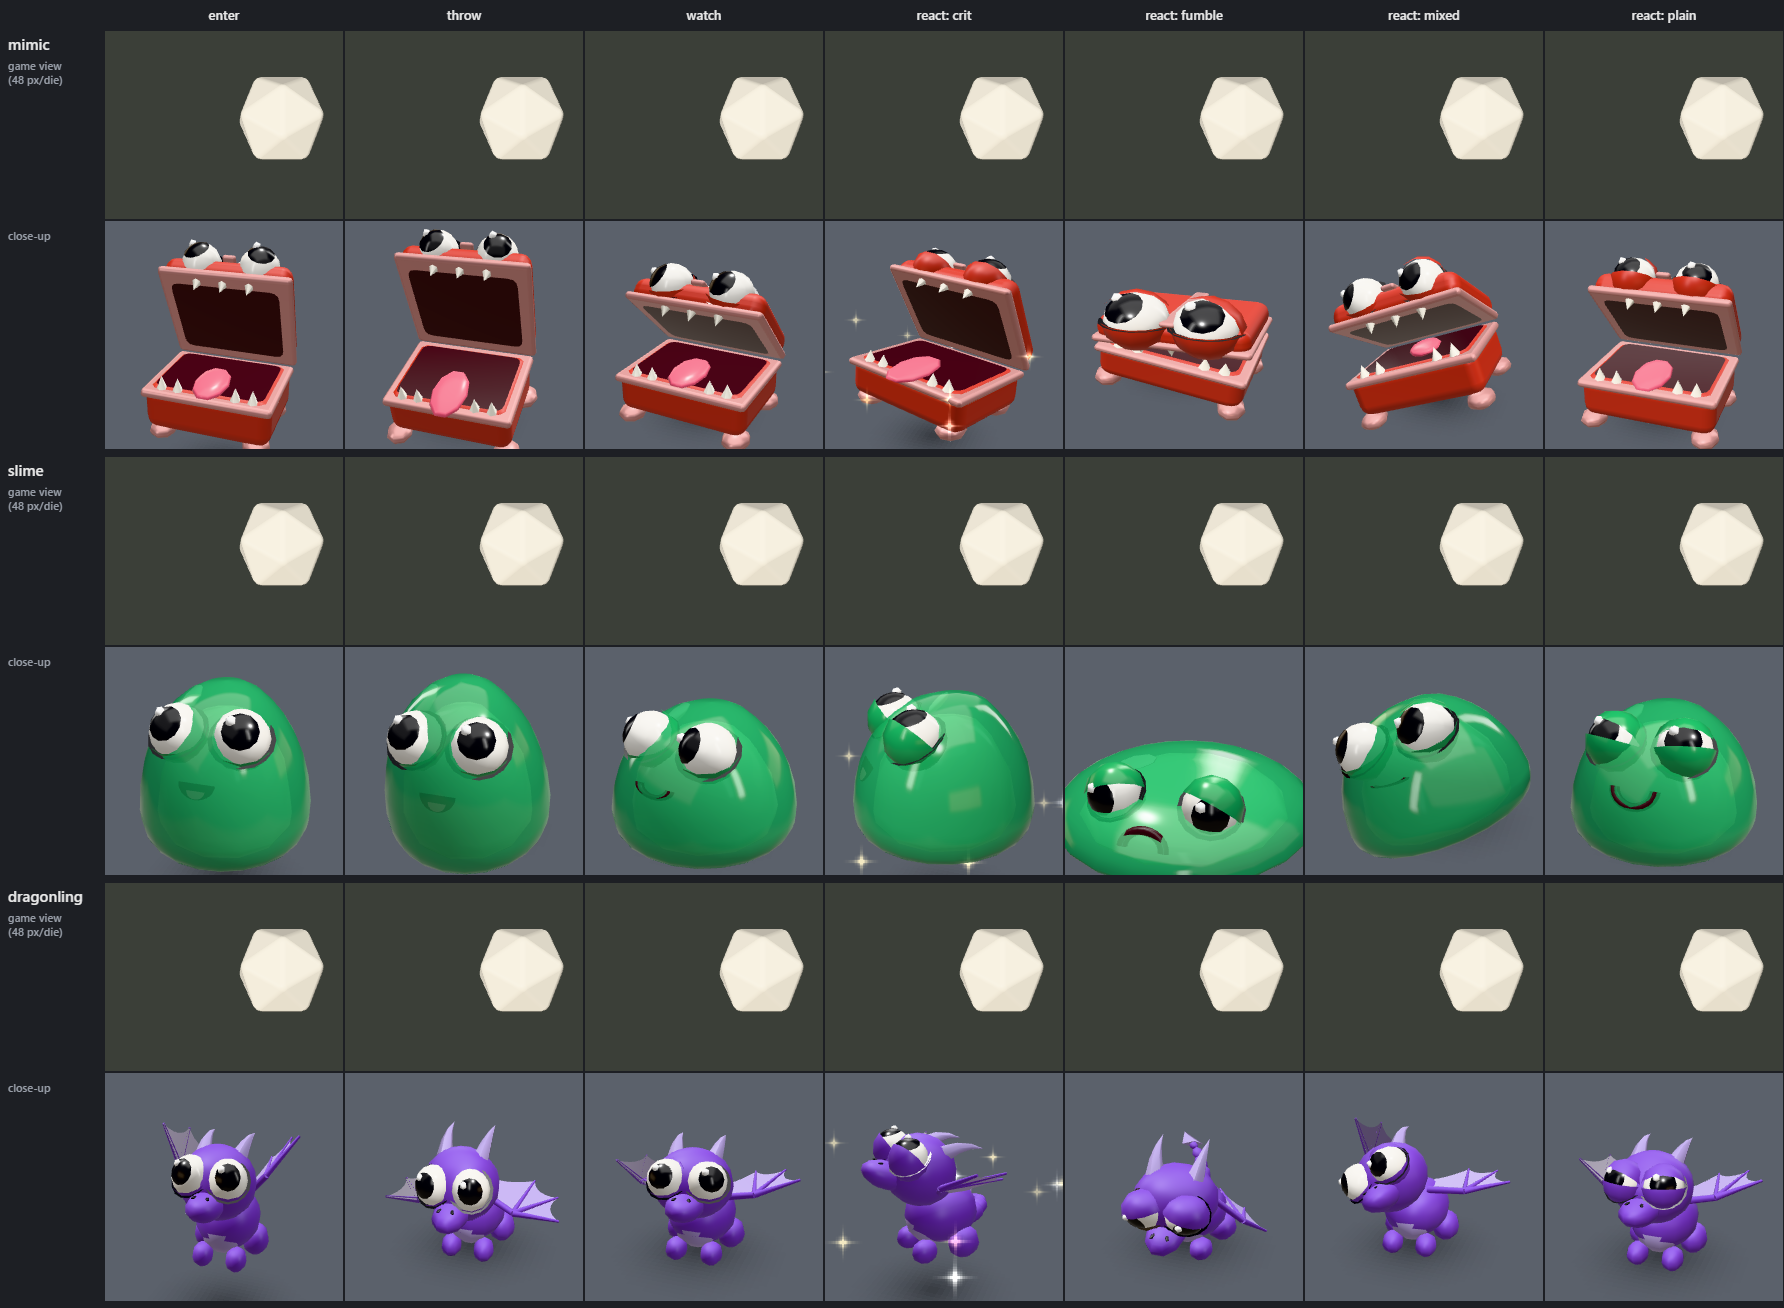
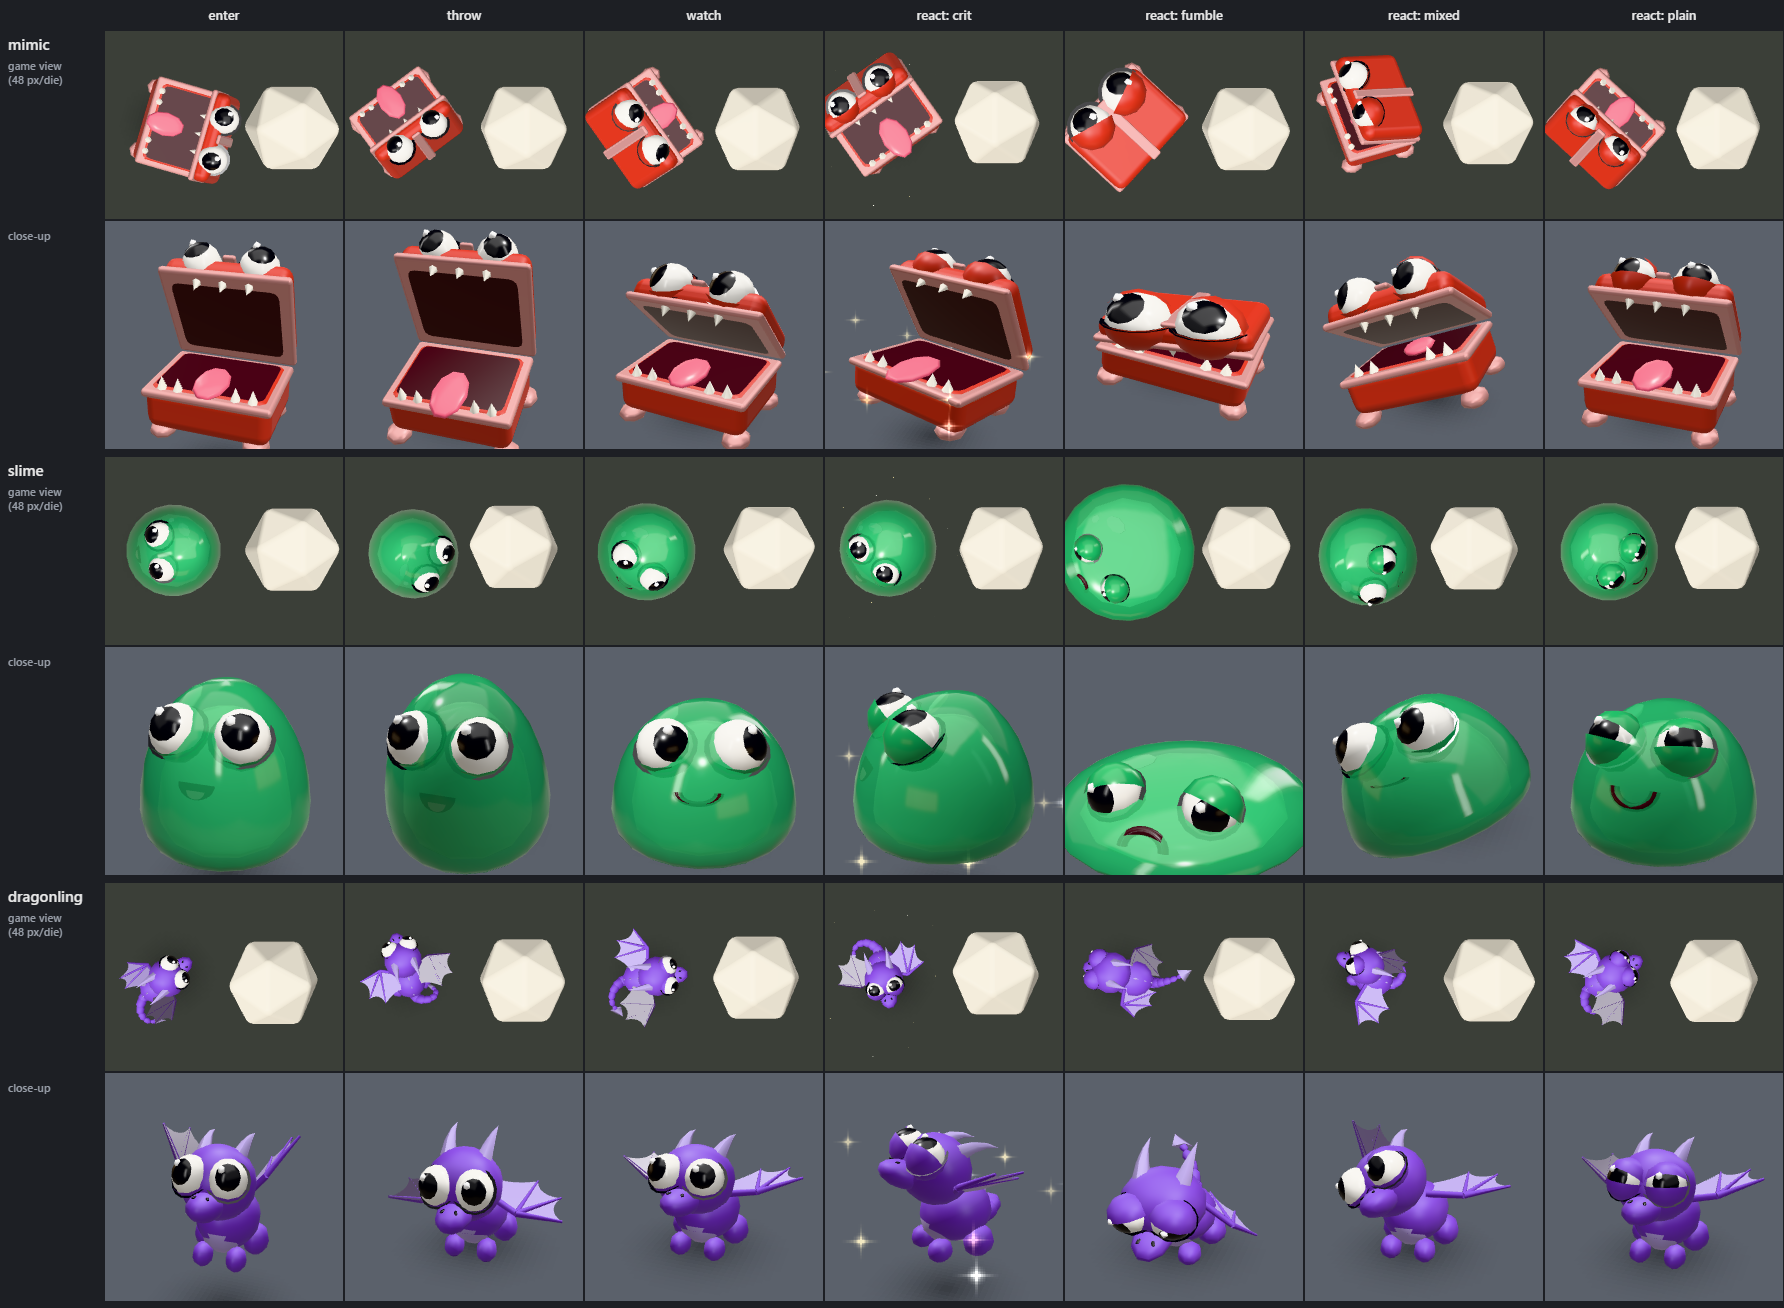
docs: pet dodge and idle leave in the README; harness game view
The README's pet section describes "How long pets stay" and its choices
(replacing "Pets stay on the table"), the idle leave, and that resting
pets move out of the cursor's way (not while dice roll). The pets
harness's game view aims at the pet where it stands (it rests in the
ring), so the grid and colours sheets show every pet again.

diff --git a/dev/pets.js b/dev/pets.js
@@ -112,11 +112,11 @@ const OUT = [
 function gameView(pet, w, h, bg, edge = 3, onPet = false) {
   scene.background = new THREE.Color(bg);
   d20.visible = true;
-  // The pet's standing place (as pets.js computes it) and a d20 beside it along the edge.
+  // Where the pet is (it rests in the ring around the middle, or is hopping there) and a d20
+  // beside it, along the edge.
   const [ox, oz] = OUT[edge];
-  const d = (edge < 2 ? AREA.halfWidth : AREA.halfDepth) - 0.6 * 1.5;
-  const bx = AREA.cx + ox * d;
-  const bz = AREA.cz + oz * d;
+  const bx = pet.position.x;
+  const bz = pet.position.z;
   d20.position.x = bx - oz * 2.3;
   d20.position.z = bz + ox * 2.3;
   const full = { w: STAGE.halfWidth * 2 * DIE_SIZE_PX, h: STAGE.halfDepth * 2 * DIE_SIZE_PX };

diff --git a/README.md b/README.md
@@ -120,18 +120,20 @@ Every look is saved as a theme, so it can be your default, be used for one die t
 
 ## Dice pet
 
-A small pet can throw your dice. It hops in beside the roll, and when the dice land it reacts to a natural 20 (a cheer) or a natural 1 (a groan), or does something in between when a roll has both (a natural 20 also throws a few sparkles). Your pet watches from where it sits: it does not move for your roll, it just turns toward the dice and throws them from its spot, then stays there until your next roll. (A pet's very first appearance hops in from the edge of your roll area to its spot.) It never delays the roll, the chat card or anything else: the pet is decided as the dice first show, so if its graphics have not loaded yet when the roll starts, that roll simply has no pet.
+A small pet can throw your dice. It hops in beside the roll, and when the dice land it reacts to a natural 20 (a cheer) or a natural 1 (a groan), or does something in between when a roll has both (a natural 20 also throws a few sparkles). Your pet watches from where it sits: it does not move for your roll, it just turns toward the dice and throws them from its spot, then stays there until your next roll, or until it has waited as long as **How long pets stay** says. (A pet's very first appearance hops in from the edge of your roll area to its spot.) It never delays the roll, the chat card or anything else: the pet is decided as the dice first show, so if its graphics have not loaded yet when the roll starts, that roll simply has no pet.
 
 - **Pick yours**: open the appearance editor and use the **Pet** section: None, **Mimic** (a treasure chest), **Slime** or **Dragonling**, and a colour. The default is a mimic in your player colour. The choice is saved to you at once; it is not part of a theme, so saving, copying or exporting a look does not include it. Press **Throw** to see your pet with the look you are editing.
 - **Everyone sees it**: each player sees every roller's pet, up to three at a time (one pet per roller). If you roll again while your pet is still out, it throws again; when the rolls overlap (an attack and its damage), it reacts once both have landed, so a natural 20 is never lost.
 - **The GM's pet**: the GM's pet throws every roll the GM makes, NPC rolls included. A GM who would rather not have one picks **None**.
-- **Resting**: a pet sitting on the table waits at a random spot in its owner's roll area (or anywhere on the table when there are no per-player areas), in a ring around the middle where the dice land (not right in the middle, not out at the edges), and away from the other pets. It keeps still, so it costs nothing while it waits. Like the dice, it is fixed on screen: it does not follow the map when you pan or zoom. Up to three pets and puddles stay out; a fourth roller sends the one that has waited longest away.
-- **Splat!**: the pets are solid, so dice bump into them. A gentle hit knocks the pet and it wobbles; a hard one (a die thrown at full pace) bursts it into a cartoon splat: a puddle of goo in the pet's colour with its two eyes blinking up at you, a few droplets around it, and the mimic's lid or the dragonling's wing left lying in it. It plays a little "splat". The puddle stays until its owner rolls again, when it pulls back together into the pet, which then throws as usual. Any die can splat any pet, yours included: your pet watches your roll from its resting spot, in the path of your own dice, so your own roll can splat it (more often the more dice you throw). Other players' dice, and stray bounces, can splat it too. A pet resting between rolls stays clear of Foundry's controls, player list and macro bar. Splats never change a result and never delay anything. Each screen throws its own dice for now, so a splat on your screen may be a near miss on another player's (and pets rest at a different spot on each screen); that will change once dice can be rolled by hand, which sends one throw to everyone.
+- **Resting**: a pet sitting on the table waits at a random spot in its owner's roll area (or anywhere on the table when there are no per-player areas), in a ring around the middle where the dice land (not right in the middle, not out at the edges), and away from the other pets. It keeps still, so it costs nothing while it waits.
+  - **Out of your way**: bring your cursor near a resting pet and it moves to a fresh spot away from it, each in its own way: the dragonling flies, the slime boings over in two hops, the mimic scuttles. It does not move while dice are rolling (the dice already know where it sits), but dodges as soon as they are done. Puddles stay put, and your cursor moves pets on your screen only.
+  - **Leaving**: after a while with no roll by its owner, a resting pet hops off the table and a puddle fades away (see **How long pets stay**). On its owner's next roll it hops back in first, then throws as usual. Like the dice, it is fixed on screen: it does not follow the map when you pan or zoom. Up to three pets and puddles stay out; a fourth roller sends the one that has waited longest away.
+- **Splat!**: the pets are solid, so dice bump into them. A gentle hit knocks the pet and it wobbles; a hard one (a die thrown at full pace) bursts it into a cartoon splat: a puddle of goo in the pet's colour with its two eyes blinking up at you, a few droplets around it, and the mimic's lid or the dragonling's wing left lying in it. It plays a little "splat". The puddle stays until its owner rolls again (or until it fades away, after **How long pets stay**), when it pulls back together into the pet, which then throws as usual. Any die can splat any pet, yours included: your pet watches your roll from its resting spot, in the path of your own dice, so your own roll can splat it (more often the more dice you throw). Other players' dice, and stray bounces, can splat it too. A pet resting between rolls stays clear of Foundry's controls, player list and macro bar. Splats never change a result and never delay anything. Each screen throws its own dice for now, so a splat on your screen may be a near miss on another player's (and pets rest at a different spot on each screen); that will change once dice can be rolled by hand, which sends one throw to everyone.
 - **Settings**:
   - **Allow dice pets** (world, GM): turn pets off for the whole table. The Pet section is hidden while it is off.
   - **Show dice pets** (per player): hide pets on your own screen. The Pet section tells you they are hidden.
   - **Pet sounds** (per player): mute the pets' chirps (and the splat).
-  - **Pets stay on the table** (per player): pets sit on the table between rolls. Turn it off and pets hop away after their reaction, as they used to (a puddle then fades away instead of waiting).
+  - **How long pets stay** (per player): how long a pet stays on the table after its owner's last roll: **Leave after the roll** (pets hop away after their reaction, and a puddle fades away instead of waiting), **30 seconds**, **1 minute** (the default), **2 minutes** or **Always**. Pets move out of your cursor's way while they wait. It replaces the old "Pets stay on the table" checkbox: if you had turned that off, you get "Leave after the roll".
   - **Dice can splat pets** (per player): turn it off and pets stay solid, so dice still bump into them and they wobble, but they never splat.
 - **Privacy**: a roll that is hidden or blind never shows a reaction. The pet just nods, in silence and for the same time as any other reaction, so nobody can tell a 20 from a 1. A roll nobody can see has no pet at all. The pet still shows whose roll it is: players who see a hidden roll's ghost dice also see the roller's pet.
 
